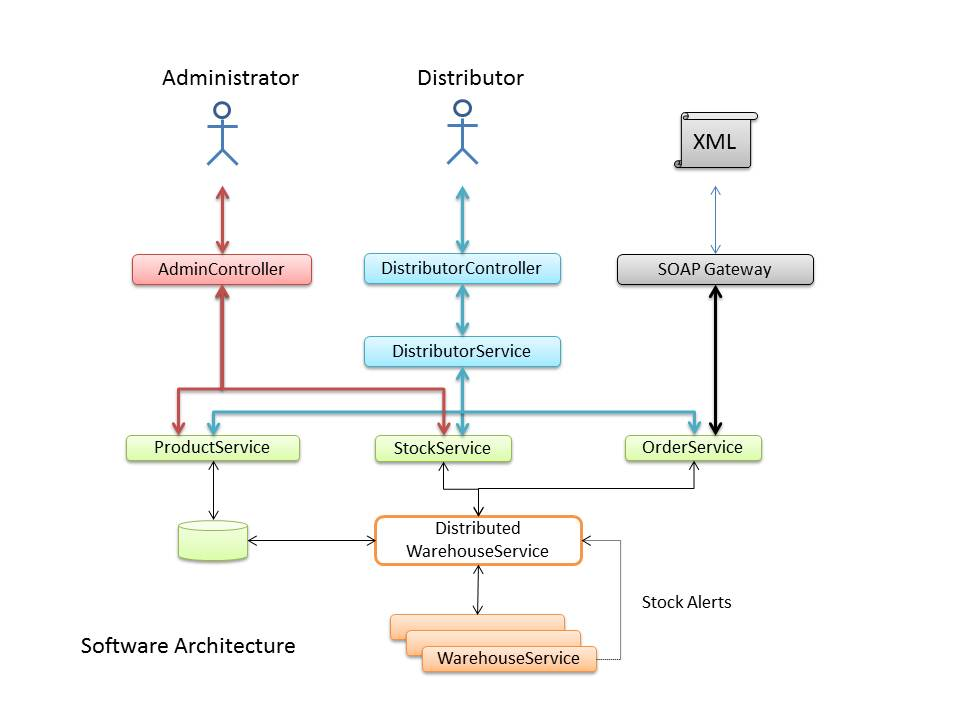
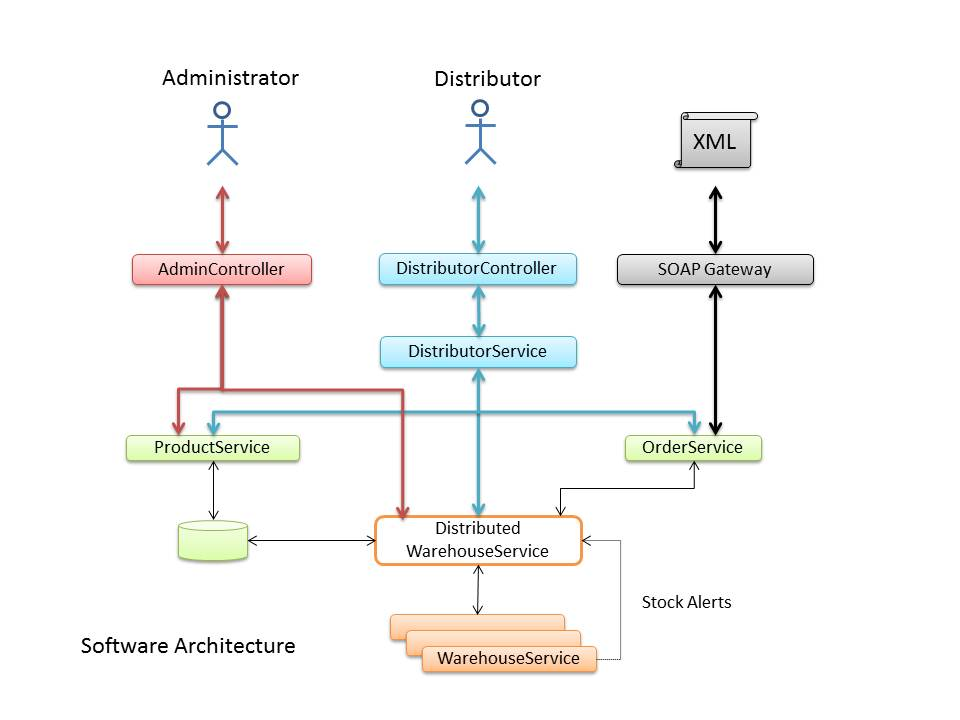
Refactored to remove the StockService

Changed region(s): [[0.2188, 0.0917, 0.625, 0.7333], [0.7188, 0.2444, 0.75, 0.3667]]

diff --git a/gv-core/src/main/java/gv/core/service/DistributedWarehouseServiceImpl.java b/gv-core/src/main/java/gv/core/service/DistributedWarehouseServiceImpl.java
@@ -2,19 +2,20 @@ package gv.core.service;
 
 import gv.api.Product;
 import gv.api.Warehouse;
-import gv.core.StockAlertDetails;
-import gv.core.WarehouseStockData;
 import gv.core.service.entity.StockAlertEntity;
 import gv.core.service.entity.WarehouseServiceBinding;
 import gv.core.service.repository.StockAlertEntityRepository;
 import gv.core.service.repository.WarehouseRepository;
 import gv.products.api.ProductService;
+import gv.warehouse.api.DistributedWarehouseService;
 import gv.warehouse.api.ShipmentConfirmation;
 import gv.warehouse.api.ShipmentRequest;
 import gv.warehouse.api.StockAlert;
+import gv.warehouse.api.StockAlertDetails;
 import gv.warehouse.api.StockChangeRequest;
 import gv.warehouse.api.StockQueryRequest;
 import gv.warehouse.api.WarehouseService;
+import gv.warehouse.api.WarehouseStockData;
 
 import java.util.ArrayList;
 import java.util.List;
@@ -160,5 +161,20 @@ public class DistributedWarehouseServiceImpl implements DistributedWarehouseServ
 		}
 		
 		return alerts;
+	}
+	
+	
+	@Override
+	public int getTotalStock(Long productId) {
+		
+		List<WarehouseStockData> stockData = getStockData(productId);
+		
+		int total = 0;
+		
+		for(WarehouseStockData data : stockData) {
+			total += data.getQty();
+		}
+		
+		return total;
 	}
 }

diff --git a/gv-api/src/main/java/gv/warehouse/api/DistributedWarehouseService.java b/gv-api/src/main/java/gv/warehouse/api/DistributedWarehouseService.java
@@ -1,0 +1,41 @@
+package gv.warehouse.api;
+
+import gv.api.Warehouse;
+
+import java.util.List;
+import java.util.Set;
+
+public interface DistributedWarehouseService extends StockAlertListener {
+	
+	Set<Warehouse> listWarehouses();
+	Warehouse getWarehouseById(Long warehouseId);
+	
+	/**
+	 * Request a Warehouse to update the stock level for the product specified in the request
+	 * @return int The new total stock level for the product in the Warehouse
+	 */
+	int updateStock(StockChangeRequest request);
+	
+	/**
+	 * Request a Warehouse to set the stock level for the product specified in the request
+	 */
+	void setStock(StockChangeRequest request);
+	
+	/**
+	 * Return the total amount of stock of the given product in the Warehouse
+	 * 
+	 * @return int The total stock of the product in the Warehouse
+	 */
+	int getStockInWarehouse(StockQueryRequest request);
+	
+	/**
+	 * Returns a list of all warehouses holding stock of the given product
+	 */
+	public List<WarehouseStockData> getStockData(Long productId);
+	
+	public ShipmentConfirmation requestShipment(ShipmentRequest request);
+	
+	public List<StockAlertDetails> getStockAlerts();
+	
+	public int getTotalStock(Long productId);
+}

diff --git a/gv-web/src/main/java/gv/web/AdminController.java b/gv-web/src/main/java/gv/web/AdminController.java
@@ -1,16 +1,12 @@
 package gv.web;
 
-import gv.api.Order;
-import gv.api.OrderConfirmation;
-import gv.api.OrderLine;
 import gv.api.Product;
 import gv.api.Warehouse;
-import gv.core.StockAlertDetails;
-import gv.core.service.DistributedWarehouseService;
 import gv.core.service.WarehouseServiceLocator;
 import gv.core.service.entity.WarehouseServiceBinding;
-import gv.orders.api.OrderService;
 import gv.products.api.ProductService;
+import gv.warehouse.api.DistributedWarehouseService;
+import gv.warehouse.api.StockAlertDetails;
 import gv.warehouse.api.StockChangeRequest;
 import gv.warehouse.api.StockQueryRequest;
 import gv.warehouse.api.WarehouseService;
@@ -49,9 +45,6 @@ public class AdminController {
 	
 	@Autowired
 	private WarehouseServiceLocator warehouseServiceLocator;
-	
-	@Autowired
-	private OrderService orderService;
 
 	@RequestMapping("/admin.html")
 	public String index(Model model) {

diff --git a/gv-api/src/main/java/gv/warehouse/api/StockAlertDetails.java b/gv-api/src/main/java/gv/warehouse/api/StockAlertDetails.java
@@ -1,0 +1,36 @@
+package gv.warehouse.api;
+
+import gv.api.Product;
+import gv.api.Warehouse;
+
+public class StockAlertDetails {
+	
+	private final Product product;
+	private final Warehouse warehouse;
+	private final int stockLevel;
+	private final int threshold;
+	public StockAlertDetails(Product product, Warehouse warehouse,
+			int stockLevel, int threshold) {
+		super();
+		this.product = product;
+		this.warehouse = warehouse;
+		this.stockLevel = stockLevel;
+		this.threshold = threshold;
+	}
+	
+	public Product getProduct() {
+		return product;
+	}
+	
+	public Warehouse getWarehouse() {
+		return warehouse;
+	}
+	
+	public int getStockLevel() {
+		return stockLevel;
+	}
+	
+	public int getThreshold() {
+		return threshold;
+	}
+}

diff --git a/gv-web/src/main/java/gv/web/DistributorController.java b/gv-web/src/main/java/gv/web/DistributorController.java
@@ -5,13 +5,13 @@ import gv.api.OrderConfirmation;
 import gv.api.OrderLine;
 import gv.api.Product;
 import gv.api.Warehouse;
-import gv.core.StockAlertDetails;
-import gv.core.service.DistributedWarehouseService;
 import gv.core.service.WarehouseServiceLocator;
 import gv.core.service.entity.WarehouseServiceBinding;
 import gv.distributor.api.DistributorService;
 import gv.orders.api.OrderService;
 import gv.products.api.ProductService;
+import gv.warehouse.api.DistributedWarehouseService;
+import gv.warehouse.api.StockAlertDetails;
 import gv.warehouse.api.StockChangeRequest;
 import gv.warehouse.api.StockQueryRequest;
 import gv.warehouse.api.WarehouseService;

diff --git a/gv-core/src/main/java/gv/orders/service/OrderServiceImpl.java b/gv-core/src/main/java/gv/orders/service/OrderServiceImpl.java
@@ -7,12 +7,12 @@ import gv.api.Product;
 import gv.api.Shipment;
 import gv.api.ShipmentLine;
 import gv.api.Warehouse;
-import gv.core.WarehouseStockData;
-import gv.core.service.DistributedWarehouseService;
 import gv.orders.api.OrderService;
 import gv.products.api.ProductService;
+import gv.warehouse.api.DistributedWarehouseService;
 import gv.warehouse.api.ShipmentConfirmation;
 import gv.warehouse.api.ShipmentRequest;
+import gv.warehouse.api.WarehouseStockData;
 
 import java.util.ArrayList;
 import java.util.Collections;

diff --git a/gv-web/src/test/java/gv/web/SOAPServiceTest.java b/gv-web/src/test/java/gv/web/SOAPServiceTest.java
@@ -5,10 +5,10 @@ import static org.junit.Assert.assertEquals;
 import static org.junit.Assert.assertThat;
 import gv.api.Product;
 import gv.api.Warehouse;
-import gv.core.service.DistributedWarehouseService;
 import gv.core.service.WarehouseServiceLocator;
 import gv.orders.api.OrderService;
 import gv.products.api.ProductService;
+import gv.warehouse.api.DistributedWarehouseService;
 import gv.warehouse.api.StockChangeRequest;
 import gv.warehouse.api.WarehouseService;
 

diff --git a/gv-core/src/test/java/gv/core/service/DistributedWarehouseServiceImplTest.java b/gv-core/src/test/java/gv/core/service/DistributedWarehouseServiceImplTest.java
@@ -7,9 +7,9 @@ import static org.mockito.Mockito.verify;
 import static org.mockito.Mockito.verifyZeroInteractions;
 import gv.AbstractWarehouseTest;
 import gv.api.Warehouse;
-import gv.core.StockAlertDetails;
 import gv.core.service.entity.StockAlertEntity;
 import gv.warehouse.api.StockAlert;
+import gv.warehouse.api.StockAlertDetails;
 import gv.warehouse.api.StockChangeRequest;
 import gv.warehouse.api.StockQueryRequest;
 

diff --git a/gv-api/src/main/java/gv/warehouse/api/WarehouseStockData.java b/gv-api/src/main/java/gv/warehouse/api/WarehouseStockData.java
@@ -1,0 +1,22 @@
+package gv.warehouse.api;
+
+import gv.api.Warehouse;
+
+public class WarehouseStockData {
+	
+	private final int qty;
+	private final Warehouse warehouse;
+	public WarehouseStockData(int qty, Warehouse warehouse) {
+		super();
+		this.qty = qty;
+		this.warehouse = warehouse;
+	}
+	
+	public int getQty() {
+		return qty;
+	}
+	public Warehouse getWarehouse() {
+		return warehouse;
+	}
+
+}
